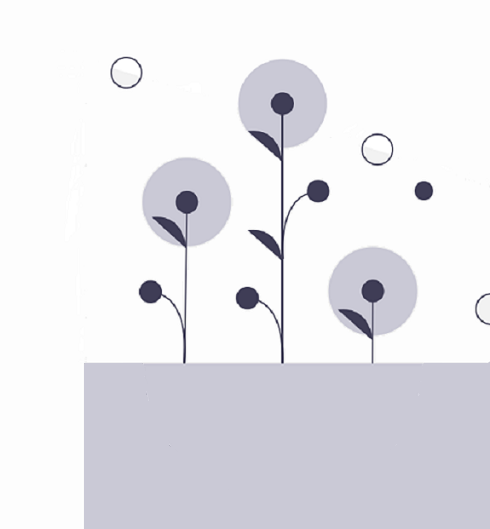
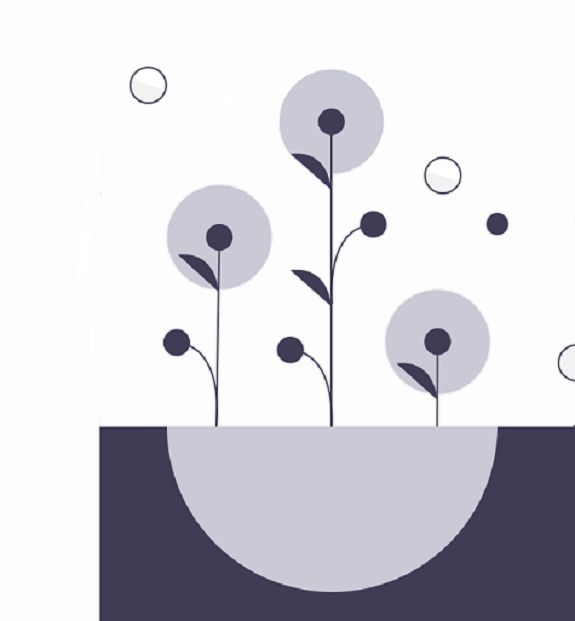
change img

Changed region(s): [[0.1531, 0.6654, 1.0, 1.0]]

diff --git a/index.html b/index.html
@@ -133,7 +133,7 @@
             </div>
             <p class="mb-3">Front-end developer based in Germany</p>
             <a
-              href="#"
+              href="about.html"
               class="btn btn-branding mt-3 rounded shadow-lg"
               title="Click here"
               >About me</a

diff --git a/styles/portfolio.css b/styles/portfolio.css
@@ -9,7 +9,7 @@
 
 body {
   background-color: var(--base-hell-color);
-  background-image: url("../images/background5.png");
+  background-image: url("../images/background3.png");
   background-repeat: no-repeat;
   background-size: auto;
   background-position: right bottom;
